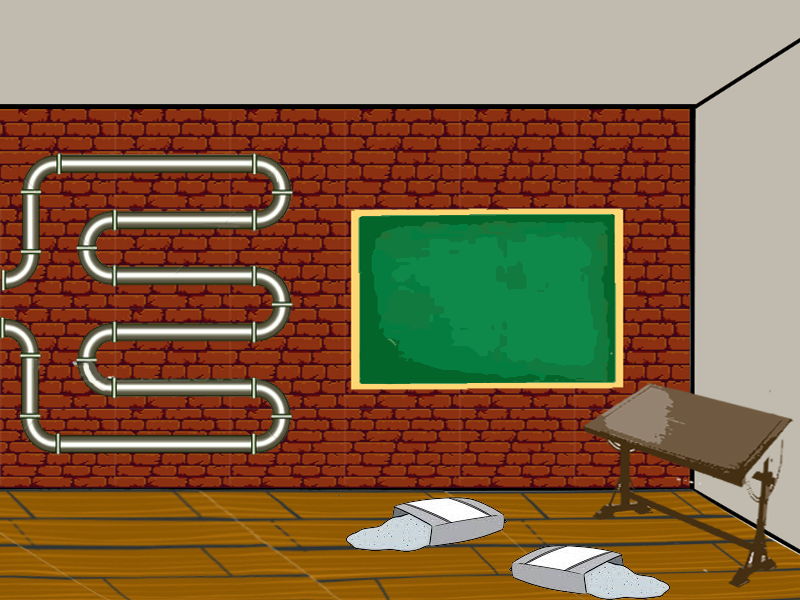
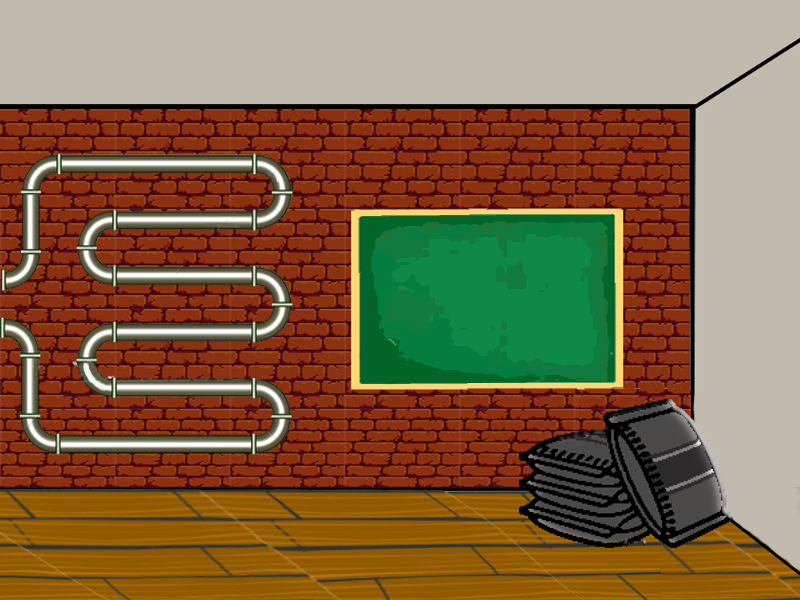
Added all rooms, almost completed, now, we only need to make the better pratices

Changed region(s): [[0.4375, 0.63, 1.0, 1.0], [0.9375, 0.99, 0.9688, 1.0]]

diff --git a/Heracles/index.html b/Heracles/index.html
@@ -128,6 +128,90 @@ PRESSIONE "E" PARA SAIR...`, null);
 		
 		var objetosInformatica = new Array(portaSaida,computadorUm,computadorDois,computadorTres,professoraInf);
 		
+		//SALA 2 - ENFERMAGEM --------------------------------------------//
+			
+			/*COMPUTADOR UM*/
+		var roupaDialogoParteUm = new DialogoParte(`GESTÃO DE SAÚDE.
+	A gestão da saúde implica administrar empreendimentos de saúde, tanto na esfera pública como privada.
+PRESSIONE "E" PARA AVANÇAR...`, null);	
+		var roupaDialogoParteDois = new DialogoParte(`FUNÇÕES.
+	CAvaliar as necessidades da instituição, gerenciar processos e programas, criar e aplicar políticas, garantir o conforto e a segurança dos pacientes e gerenciar equipes são algumas das atribuições da área de gestão em saúde.
+PRESSIONE "E" PARA SAIR...`, null);	
+		var roupaDialogos = new Array(roupaDialogoParteUm, roupaDialogoParteDois); 
+		var roupaDialogo = new DialogoInterativo('interactabilityDiv', 'img/telas/telaMesa.png', roupaDialogos);
+		
+		
+			/*COMPUTADOR DOIS*/
+		var coracaoDialogoParteUm = new DialogoParte(`PRIMEIROS SOCORROS.
+	Define-se os primeiros socorros como a prestação e assistência médica imediata a uma pessoa ou uma ferida até à chegada de ajuda profissional. 
+PRESSIONE "E" PARA AVANÇAR...`, null);	
+		var coracaoDialogoParteDois = new DialogoParte(`INTUITO.
+	Centra-se não só no dano físico ou de doença, mas também no atendimento inicial, incluindo o apoio psicológico para pessoas que sofrem emocionalmente devido a vivência ou testemunho de um evento traumático.
+PRESSIONE "E" PARA SAIR...`, null);	
+		var coracaoDialogos = new Array(coracaoDialogoParteUm, coracaoDialogoParteDois); 
+		var coracaoDialogo = new DialogoInterativo('interactabilityDiv', 'img/telas/telaMesa.png', coracaoDialogos);
+		
+		
+			/*COMPUTADOR TRÊS*/
+		var macaDialogoParteUm = new DialogoParte(`ENFERMAGEM DOMICILIÁRIA.
+	Uma área crescente para atuação do enfermeiro. Atualmente, muitas pessoas optam pela internação domiciliar dos seus familiares, com o objetivo de proporcionar uma qualidade maior na assistência médica a estes pacientes.`, null);	
+		var macaDialogoParteDois = new DialogoParte(`HOSPITAL PREOCUPANTE.
+	Outra questão que influencia nessa escolha é o grande potencial de contaminação existente nas unidades hospitalares e a probabilidade deste paciente adquirir uma infecção grave, que possa comprometer definitivamente a saúde.`, null);	
+		var macaDialogoParteTres = new DialogoParte(`SOLUÇÃO.
+	Nesse contexto, a enfermagem domiciliar se encaixa perfeitamente, pois é possível aliar a qualidade na assistência prestada ao paciente com a segurança que a profissão passa aos familiares destes pacientes.`, null);	
+		var macaDialogos = new Array(macaDialogoParteUm, macaDialogoParteDois, macaDialogoParteTres); 
+		var macaDialogo = new DialogoInterativo('interactabilityDiv', 'img/telas/telaComputador.png', macaDialogos);
+		/*---------------------------------------------------*/
+		
+		
+			/*PROFESSOR*/
+		var professoraDialogoParteUm = new DialogoParte(`Olá, agora que você adquiriu um pouco de conhecimento a respeito deste curso, responda algumas questões.`, null);	
+		
+			//QUESTÕES
+			//PROGRAMAÇÃO
+		var perguntaEnfUmAlternativaUm = 'Limpar o Sangue.';	
+		var perguntaEnfUmAlternativaDois = 'Colocar sal com álcool para evitar infecção.';	
+		var perguntaEnfUmAlternativaTres = 'Estancar o sangramento e limpa-lo com água.';	
+		var perguntaEnfUmAlternativaQuatro = 'Deixa-lo sentado e aguardar o sangramento diminuir.';	
+		var perguntaEnfUmAlternativas = new Array(perguntaEnfUmAlternativaUm, perguntaEnfUmAlternativaDois, perguntaEnfUmAlternativaTres, perguntaEnfUmAlternativaQuatro);
+		
+		var perguntaEnfUm = new Question(perguntaEnfUmAlternativas, 2);
+		
+			//BANCO DE DADOS
+		var perguntaEnfDoisAlternativaUm = 'Mantê-lo em uma posição que deixe o confortável e deixa-lo nela';	
+		var perguntaEnfDoisAlternativaDois = 'Manter um funcionário 24 junto dele.';	
+		var perguntaEnfDoisAlternativaTres = 'Deixa-lo em uma posição confortável junto a um comunicador para caso ele queira trocar de posição';	
+		var perguntaEnfDoisAlternativaQuatro = 'Administrar doses de anestesias fortes.';	
+		var perguntaEnfDoisAlternativas = new Array(perguntaEnfDoisAlternativaUm, perguntaEnfDoisAlternativaDois, perguntaEnfDoisAlternativaTres, perguntaEnfDoisAlternativaQuatro);
+		
+		var perguntaEnfDois = new Question(perguntaEnfDoisAlternativas, 2);
+		
+			//REDES
+		var perguntaEnfTresAlternativaUm = 'Receber visitas por menor que seja a enfermidade.';	
+		var perguntaEnfTresAlternativaDois = 'Ir ao hospital periodicamente para tratamento.';	
+		var perguntaEnfTresAlternativaTres = 'Não ter contato físico com o medico designado.';	
+		var perguntaEnfTresAlternativaQuatro = 'Nenhuma das Anteriores.';	
+		var perguntaEnfTresAlternativas = new Array(perguntaEnfTresAlternativaUm, perguntaEnfTresAlternativaDois, perguntaEnfTresAlternativaTres, perguntaEnfTresAlternativaQuatro);
+		
+		var perguntaEnfTres = new Question(perguntaEnfTresAlternativas, 3);
+			//PROFESSORA
+		
+		var professoraEnfDialogoParteUm = new DialogoParte(`Agora, com os conhecimentos adquiridos, responda as questões a seguir.`, null);
+		var professoraEnfDialogoParteDois = new DialogoParte(`Em um acidente de transito onde o motorista sofre de sangramentos graves nas pernas deve-se primeiro:`, perguntaEnfUm);	
+		var professoraEnfDialogoParteTres = new DialogoParte(`No caso de um paciente com problemas na coluna, o ideal seria:`, perguntaEnfDois);	
+		var professoraEnfDialogoParteQuatro = new DialogoParte(`Um paciente que receba tratamento domiciliar não deve:`, perguntaEnfTres);
+		var professoraEnfDialogoPartefinal = new DialogoParte(`Fim do teste!`, null);
+		var professoraEnfDialogos = new Array(professoraEnfDialogoParteUm, professoraEnfDialogoParteDois, professoraEnfDialogoParteTres, professoraEnfDialogoParteQuatro, professoraEnfDialogoPartefinal); 
+		var professoraEnfDialogo = new DialogoInterativo('interactabilityDiv', 'img/telas/telaComputador.jpg', professoraEnfDialogos);
+		
+		/*------------------------DECLARAÇÃO FINAL---------------------------*/
+		var portaSaida = new ObjetoInterativo('portaSaida', 'porta', 'Saída', 0);
+		var roupa = new ObjetoInterativo('roupa', 'placa', 'GESTÃO DE SAÚDE', roupaDialogo);
+		var coracao = new ObjetoInterativo('coracao', 'placa', 'PRIMEIROS SOCORROS', coracaoDialogo);
+		var maca = new ObjetoInterativo('maca', 'placa', 'EFERMAGEM DOMICILIÁRIA', macaDialogo);
+		var professoraEnf = new ObjetoInterativo('professora', 'professora', 'Exercícios', professoraEnfDialogo);
+		
+		var objetosEnfermagem = new Array(portaSaida,roupa,coracao,maca,professoraEnf);
 		
 		//SALA 3 - EDIFICAÇÕES  --------------------------------------------//
 			/*PLACA*/
@@ -157,7 +241,7 @@ PRESSIONE "E" PARA SAIR...`, null)
 		
 			/*mesa*/
 		var mesaDialogoParteUm = new DialogoParte(`TÉCNICO.
-O técnico em edificações deve lidar com diversas questões simultâneas em todas as etapas de uma obra, desta forma é fundamental saber delegar e compreender a fundo todos os aspectos relativos á execução de obras, lidan     do com as etapas e os processos construtivos.
+O técnico em edificações deve lidar com diversas questões simultâneas em todas as etapas de uma obra, desta forma é fundamental saber delegar e compreender a fundo todos os aspectos relativos á execução de obras, lidando com as etapas e os processos construtivos.
 PRESSIONE "E" PARA SAIR...`, null);	
 		var mesaDialogos = new Array(mesaDialogoParteUm); 
 		var mesaDialogo = new DialogoInterativo('interactabilityDiv', 'img/telas/telaMesa.png', mesaDialogos);
@@ -214,6 +298,89 @@ PRESSIONE "E" PARA SAIR...`, null);
 		
 		/*---------------------------------------------------*/
 		
+		//SALA 4 - TURISMO --------------------------------------------//
+			
+			/*COMPUTADOR UM*/
+		var balaoDialogoParteUm = new DialogoParte(`ATIVIDADES RECREATIVAS.
+	O profissional de turismo precisa também planejar o lazer para seus consumidores, estruturando assim uma programação para atender as necessidades dos mesmos.
+PRESSIONE "E" PARA AVANÇAR...`, null);	
+		var balaoDialogoParteDois = new DialogoParte(`DIVERSÃO.
+	Também é bom salientar, que quanto mais feliz, melhores as memórias, quanto melhores as memórias, maior a chance deles voltarem a consumir seus serviços.
+PRESSIONE "E" PARA SAIR...`, null);	
+		var balaoDialogos = new Array(balaoDialogoParteUm, balaoDialogoParteDois); 
+		var balaoDialogo = new DialogoInterativo('interactabilityDiv', 'img/telas/telaMesa.png', balaoDialogos);
+		
+		
+			/*COMPUTADOR DOIS*/
+		var mesaTurDialogoParteUm = new DialogoParte(`GEOGRAFIA TURISTICA.
+	É o estudo da viagem como atividade cultural e social. Cobra diversos assuntos incluindo a economia do lazer, a indústria, gerenciamento e sociologia do turismo.
+PRESSIONE "E" PARA AVANÇAR...`, null);	
+		var mesaTurDialogoParteDois = new DialogoParte(`IMPORTÂNCIA.
+	Além disso é importante planejar como será conduzido o turismo, principalmente relacionado a preservação de patrimônios históricos e naturais.	
+PRESSIONE "E" PARA SAIR...`, null);	
+		var mesaTurDialogos = new Array(mesaTurDialogoParteUm, mesaTurDialogoParteDois); 
+		var mesaTurDialogo = new DialogoInterativo('interactabilityDiv', 'img/telas/telaMesa.png', mesaTurDialogos);
+		
+		
+			/*COMPUTADOR TRÊS*/
+		var computadorTurDialogoParteUm = new DialogoParte(`APLICATIVOS INFORMATIZADOS.
+	Os sistemas de turismo auxiliam muito a vida de empresas que trabalham com turismo, como agências de viagem, agências de intercâmbio, cias aéreas, redes hoteleiras, hotéis, pousadas, e por aí vai.
+PRESSIONE "E" PARA AVANÇAR...`, null);	
+		var computadorTurDialogoParteDois = new DialogoParte(`EMPRESAS.
+	Inclusive empresas do mundo corporativo que não tem nada a ver com turismo, mas que tem grande volumes de compras de passagens, reservas de hotéis e locação de carros para as viagens de negócio, precisam de sistemas para ajudar na administração de viagens de suas empresas.
+PRESSIONE "E" PARA SAIR...`, null);	
+
+		var computadorTurDialogos = new Array(computadorTurDialogoParteUm, computadorTurDialogoParteDois); 
+		var computadorTurDialogo = new DialogoInterativo('interactabilityDiv', 'img/telas/telaComputador.jpg', computadorTurDialogos);
+		/*---------------------------------------------------*/
+		
+		
+			/*PROFESSOR*/
+		var professoraDialogoParteUm = new DialogoParte(`Olá, agora que você adquiriu um pouco de conhecimento a respeito deste curso, responda algumas questões.`, null);	
+		
+			//QUESTÕES
+			//PROGRAMAÇÃO
+		var perguntaTurUmAlternativaUm = 'Seco.';	
+		var perguntaTurUmAlternativaDois = 'Extremamente Frio.';	
+		var perguntaTurUmAlternativaTres = 'Ensolarado.';	
+		var perguntaTurUmAlternativaQuatro = 'Chuvoso.';	
+		var perguntaTurUmAlternativas = new Array(perguntaTurUmAlternativaUm, perguntaTurUmAlternativaDois, perguntaTurUmAlternativaTres, perguntaTurUmAlternativaQuatro);
+		
+		var perguntaTurUm = new Question(perguntaTurUmAlternativas, 2);
+		
+			//BANCO DE DADOS
+		var perguntaTurDoisAlternativaUm = 'Certo.';	
+		var perguntaTurDoisAlternativaDois = 'Errado.';
+		var perguntaTurDoisAlternativas = new Array(perguntaTurDoisAlternativaUm, perguntaTurDoisAlternativaDois);
+		
+		var perguntaTurDois = new Question(perguntaTurDoisAlternativas, 1);
+		
+			//REDES
+		var perguntaTurTresAlternativaUm = 'Maratonas.';	
+		var perguntaTurTresAlternativaDois = 'Esportes Radicais.';	
+		var perguntaTurTresAlternativaTres = 'Musculação.';	
+		var perguntaTurTresAlternativaQuatro = 'Caminhadas e alongamentos.';	
+		var perguntaTurTresAlternativas = new Array(perguntaTurTresAlternativaUm, perguntaTurTresAlternativaDois, perguntaTurTresAlternativaTres, perguntaTurTresAlternativaQuatro);
+		
+		var perguntaTurTres = new Question(perguntaTurTresAlternativas, 3);
+			//PROFESSORA
+		
+		var perguntaTurDialogoParteUm = new DialogoParte(`Agora, com os conhecimentos adquiridos, responda as questões a seguir.`, null);
+		var perguntaTurDialogoParteDois = new DialogoParte(`Um grupo de turistas querendo aproveitar as férias para praticar esportes seria melhor alocado em um local com clima:`, perguntaTurUm);	
+		var perguntaTurDialogoParteTres = new DialogoParte(`Uma empresa ao criar um sistema de viagens particulares facilitaria seu trabalho com uso de Equipamentos Analógicos e manuais para maior produtividades.`, perguntaTurDois);	
+		var perguntaTurDialogoParteQuatro = new DialogoParte(`Um grupo de turistas predominantemente idosos e sedentários seria melhor direcionado para atividades como:`, perguntaTurTres);
+		var perguntaTurDialogoPartefinal = new DialogoParte(`Fim do teste!`, null);
+		var perguntaTurDialogos = new Array(perguntaTurDialogoParteUm, perguntaTurDialogoParteDois, perguntaTurDialogoParteTres, perguntaTurDialogoParteQuatro, perguntaTurDialogoPartefinal); 
+		var perguntaTurDialogo = new DialogoInterativo('interactabilityDiv', 'img/telas/telaComputador.jpg', perguntaTurDialogos);
+		
+		/*------------------------DECLARAÇÃO FINAL---------------------------*/
+		var portaSaida = new ObjetoInterativo('portaSaida', 'porta', 'Saída', 0);
+		var balao = new ObjetoInterativo('balao', 'placa', 'ATIVIDADES RECREATIVAS', balaoDialogo);
+		var mesaTur = new ObjetoInterativo('mesaTur', 'placa', 'GEOGRAFIA TURISTICA', mesaTurDialogo);
+		var computadorTur = new ObjetoInterativo('computadorTur', 'computador', 'APLICATIVOS INFORMATIZADOS NA AREA DE TURISMO', computadorTurDialogo);
+		var perguntaTur = new ObjetoInterativo('professora', 'professora', 'Exercícios', perguntaTurDialogo);
+		
+		var objetosTurismo = new Array(portaSaida,balao,mesaTur,computadorTur,perguntaTur);
 		
 		
 		
@@ -396,8 +563,6 @@ PRESSIONE "E" PARA SAIR...`, null);
 		/*---------------------------------------------------*/
 		
 		//OBJETOS	
-		var objetosEnfermagem = new Array(portaSaida,computadorUm,computadorDois,computadorTres,professoraInf);
-		var objetosTurismo = new Array(portaSaida,computadorUm,computadorDois,computadorTres,professoraInf);
 		
 		var salaAtual = 0;	
 		var objetos = new Array(objetosPrincipal,objetosInformatica,objetosEnfermagem,objetosEdificacoes,objetosTurismo,objetosAdministracao,objetosManutencao);
@@ -533,7 +698,7 @@ PRESSIONE "E" PARA SAIR...`, null);
 			    			
 			    			var computerDialogActualPart = objetos[salaAtual][contar].getData().getActualPart();
 			    			
-			    			escrever(objetos[salaAtual][contar].getData().getParts()[computerDialogActualPart].getText(),'roboTexto',60);
+			    			escrever(objetos[salaAtual][contar].getData().getParts()[computerDialogActualPart].getText(),'roboTexto',50);
 			    			break;	
 			    				
 			    		case 'computador':
@@ -551,7 +716,7 @@ PRESSIONE "E" PARA SAIR...`, null);
 			    			
 			    			var computerDialogActualPart = objetos[salaAtual][contar].getData().getActualPart();
 			    			
-			    			escrever(objetos[salaAtual][contar].getData().getParts()[computerDialogActualPart].getText(),'computadorTexto',40);
+			    			escrever(objetos[salaAtual][contar].getData().getParts()[computerDialogActualPart].getText(),'computadorTexto',25);
 			    			break;
 			    			
 			    		case 'cimento':
@@ -721,7 +886,7 @@ PRESSIONE "E" PARA SAIR...`, null);
 				}
 				else
 				{
-					player.style.left = (parseFloat(player.style.left.substr(0,parseFloat(player.style.left.length) - 2)) + 0.15)+'vw';
+					player.style.left = (parseFloat(player.style.left.substr(0,parseFloat(player.style.left.length) - 2)) + 0.30)+'vw';
 					checkInteractability();
 					if(player.style.transform == "scaleX(-1)")
 					{
@@ -742,7 +907,7 @@ PRESSIONE "E" PARA SAIR...`, null);
 				}
 				else
 				{
-					player.style.left = (parseFloat(player.style.left.substr(0,parseFloat(player.style.left.length) - 2)) - 0.15)+'vw';
+					player.style.left = (parseFloat(player.style.left.substr(0,parseFloat(player.style.left.length) - 2)) - 0.30)+'vw';
 					checkInteractability();
 					if(player.style.transform == "scaleX(1)")
 					{
@@ -940,24 +1105,24 @@ PRESSIONE "E" PARA SAIR...`, null);
 
 	    		</div>
 	
- 				<div id="computadorUm" class='relative' name='Computador: Javascript' style="
-	 			background-image: url('img/objetos/compUm.png');
+ 				<div id="roupa" class='relative' name='Computador: Javascript' style="
+	 			background-image: url('img/objetos/roupa.png');
 				background-size: 100% 100%;
  				left: 20vw;
 				height: 17vw;
 				width: 16vw;">
 
 	    		</div>
-	    		<div id="computadorDois" class='relative' name='Computador: HTML' style="
-	 			background-image: url('img/objetos/compUm.png');
+	    		<div id="coracao" class='relative' name='Computador: HTML' style="
+	 			background-image: url('img/objetos/coracao.png');
 				background-size: 100% 100%;
  				left: 40vw;
 				height: 17vw;
 				width: 16vw;">
 
 	    		</div>
-	    		<div id="computadorTres" class='relative' name='Computador: CSS' style="
-	 			background-image: url('img/objetos/compUm.png');
+	    		<div id="maca" class='relative' name='Computador: CSS' style="
+	 			background-image: url('img/objetos/maca.png');
 				background-size: 100% 100%;
 				transform: scaleX(-1);
  				left: 60vw;
@@ -1039,7 +1204,72 @@ PRESSIONE "E" PARA SAIR...`, null);
 
 	    		</div>`;
 	    		salaAtual = sala;
-	    			break;	
+	    			break;
+	    		case 4:
+				document.body.innerHTML = `
+    			<div id="container" data-screen='tur' style='background-image: url("img/fundos/salaTUR.png");background-size: 100% 100%;'>
+				<div id="interactabilityDiv">
+			
+				</div>
+				<div id="showInfo">
+			
+				</div>
+	 			<div id='player' style="
+	 			background-image: url('img/heracles/stopped.gif');
+				background-size: 100% 100%;
+				background-position: 0px 0px;
+	 			left: 0.05vw;
+	 			height: 12vw;
+	 			width: 9vw;">
+ 				</div>
+ 				
+ 				<div id="portaSaida" class='relative' name='Sair' style="
+	 			background-image: url('img/portas/portaTUR.png');
+				background-size: 100% 100%;
+ 				left: 0vw;
+				height: 17vw;
+				width: 8vw;">
+
+	    		</div>
+	
+ 				<div id="balao" class='relative' name='Computador: Javascript' style="
+	 			background-image: url('img/objetos/balao.png');
+				background-size: 100% 100%;
+ 				left: 20vw;
+				height: 17vw;
+				width: 19vw;">
+
+	    		</div>
+	    		<div id="mesaTur" class='relative' name='Computador: HTML' style="
+	 			background-image: url('img/objetos/mesaTur.png');
+				background-size: 100% 100%;
+				background-repeat: no-repeat;
+				background-position: 100% 100%;
+ 				left: 40vw;
+				height: 15vw;
+				width: 16vw;">
+
+	    		</div>
+	    		<div id="computadorTur" class='relative' name='Computador: CSS' style="
+	 			background-image: url('img/objetos/compUm.png');
+				background-size: 100% 100%;
+ 				left: 60vw;
+				height: 17vw;
+				width: 16vw;
+				transform: scaleX(-1);">
+
+				 </div>
+				<div id="professora" class='relative' name='Explicação' style="
+	 			background-image: url('img/objetos/profTUR.png');
+				background-size: 100% 100%;
+ 				left: 80vw;
+				height: 17vw;
+				width: 8vw;
+				transform: scaleX(-1);">
+
+	    		</div>`;
+	    		salaAtual = sala;
+	    			break;		
 	    		case 5:
 				document.body.innerHTML = `
     			<div id="container" data-screen='adm' style='background-image: url("img/fundos/salaADM.png");background-size: 100% 100%;'>
@@ -1224,7 +1454,7 @@ PRESSIONE "E" PARA SAIR...`, null);
         				comandos = true;
         				document.getElementById(objetos[salaAtual][contando].getData().getId()).innerHTML = objetos[salaAtual][contando].getName();
         			}
-        			escrever(objetos[salaAtual][contando].getData().getParts()[objetos[salaAtual][contando].getData().getActualPart()].getText(),'computadorTexto',40);	
+        			escrever(objetos[salaAtual][contando].getData().getParts()[objetos[salaAtual][contando].getData().getActualPart()].getText(),'computadorTexto',25);	
         			
         			break;
         			
@@ -1265,7 +1495,7 @@ PRESSIONE "E" PARA SAIR...`, null);
         				comandos = true;
         				document.getElementById(objetos[salaAtual][contando].getData().getId()).innerHTML = objetos[salaAtual][contando].getName();
         			}
-        			escrever(objetos[salaAtual][contando].getData().getParts()[objetos[salaAtual][contando].getData().getActualPart()].getText(),'roboTexto',60);	
+        			escrever(objetos[salaAtual][contando].getData().getParts()[objetos[salaAtual][contando].getData().getActualPart()].getText(),'roboTexto',50);	
         			
         			break;	
         		case 'professora':
@@ -1359,7 +1589,6 @@ PRESSIONE "E" PARA SAIR...`, null);
         	{
         		objetos[salaNaHora][conta].getData().getParts()[dialogoParte].getExtra().hit = false;
         	}
-        	alert(objetos[salaNaHora][conta].getData().getParts()[dialogoParte].getExtra().hit);
         	interactDialog();
         }
 </script>

diff --git a/Heracles/style.css b/Heracles/style.css
@@ -114,7 +114,7 @@ body
 {
 	top: calc(100% - 29vw - 0.5vw);
 }
-#computadorUm, #computadorUnico, #computadorAdm
+#computadorUm, #computadorUnico, #computadorAdm, #roupa, #balao
 {
     top: calc(100% - 46vw - 0.5vw);
 }
@@ -122,7 +122,7 @@ body
 {
     top: calc(100% - 50vw - 0.5vw);
 }
-#computadorDois, #robo, #cimento
+#computadorDois, #robo, #cimento, #coracao, #mesaTur
 {
     top: calc(100% - 63vw - 0.5vw);
 }
@@ -134,7 +134,7 @@ body
 {
 	top: calc(100% - 80vw - 0.5vw);
 }
-#computadorTres, #circuito, #lousa
+#computadorTres, #circuito, #lousa, #maca, #computadorTur
 {
     top: calc(100% - 80vw - 0.5vw);
 }
